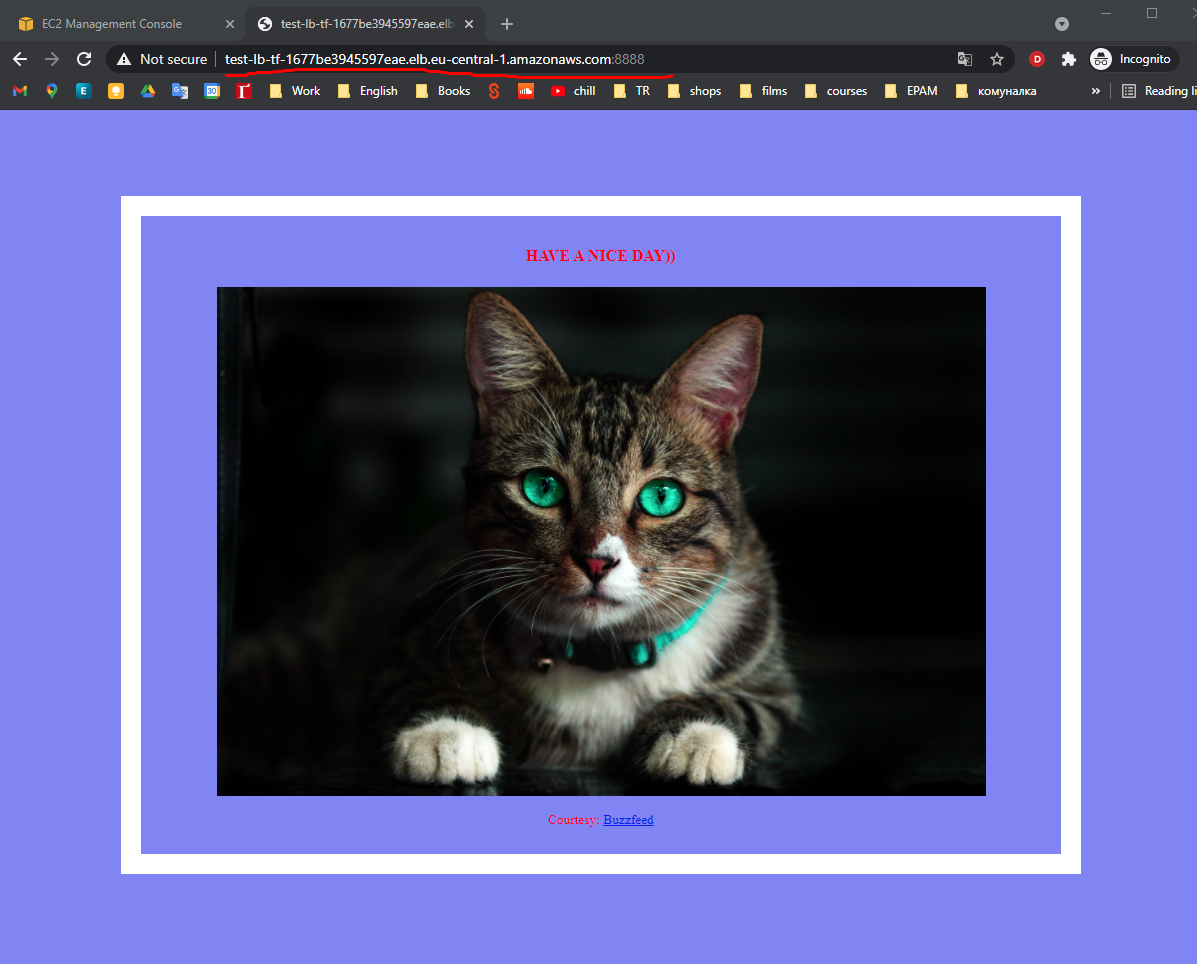
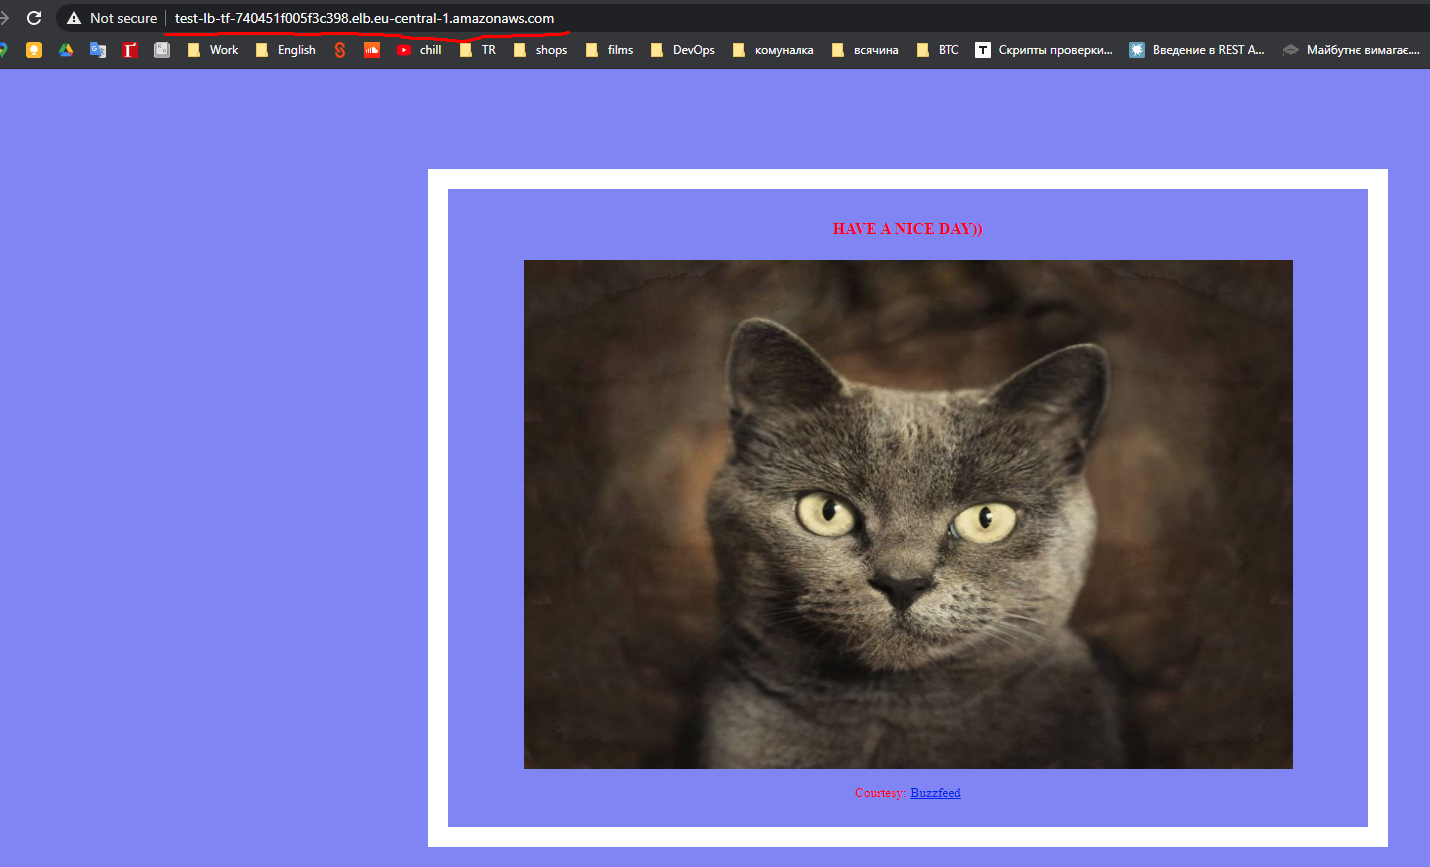
commit with correct DNS link

diff --git a/README.md b/README.md
@@ -28,7 +28,7 @@ Finally, the script has done its job:
 
 And we've got our WebSite:
 
-![Screenshot_6](https://user-images.githubusercontent.com/75696130/113304323-985b2c00-930a-11eb-9b89-216a4a40ecef.png)
+![Screenshot_6](https://user-images.githubusercontent.com/75696130/113508763-82dc4100-955a-11eb-86ac-ac4795a60dd2.png)
 
 
 Turning back to the load balancer and targets, they are healthy now:
@@ -37,7 +37,7 @@ Turning back to the load balancer and targets, they are healthy now:
 
 Configuration of instance:
 
-![Screenshot_8](https://user-images.githubusercontent.com/75696130/113304659-ea03b680-930a-11eb-9939-72901c2a8fdf.png)
+![Screenshot_8](https://user-images.githubusercontent.com/75696130/113508779-a0a9a600-955a-11eb-9e0f-d38289cfe1df.png)
 
 
 The names of the script and tf files are different because I saved them to push to git. The original are: example.tf and site_creating.ps1.
@@ -50,8 +50,4 @@ The link:
 http://test-lb-tf-1677be3945597eae.elb.eu-central-1.amazonaws.com:8888/
 
 
-![Screenshot_9](https://user-images.githubusercontent.com/75696130/113305143-68605880-930b-11eb-9617-0f4206c26bbd.png)
-
-Instance 1    http://3.65.227.85:8888/
-
-Instance 2    http://18.185.79.201:8888/
+![Screenshot_9](https://user-images.githubusercontent.com/75696130/113508807-c5058280-955a-11eb-8447-bef9f794097d.png)
